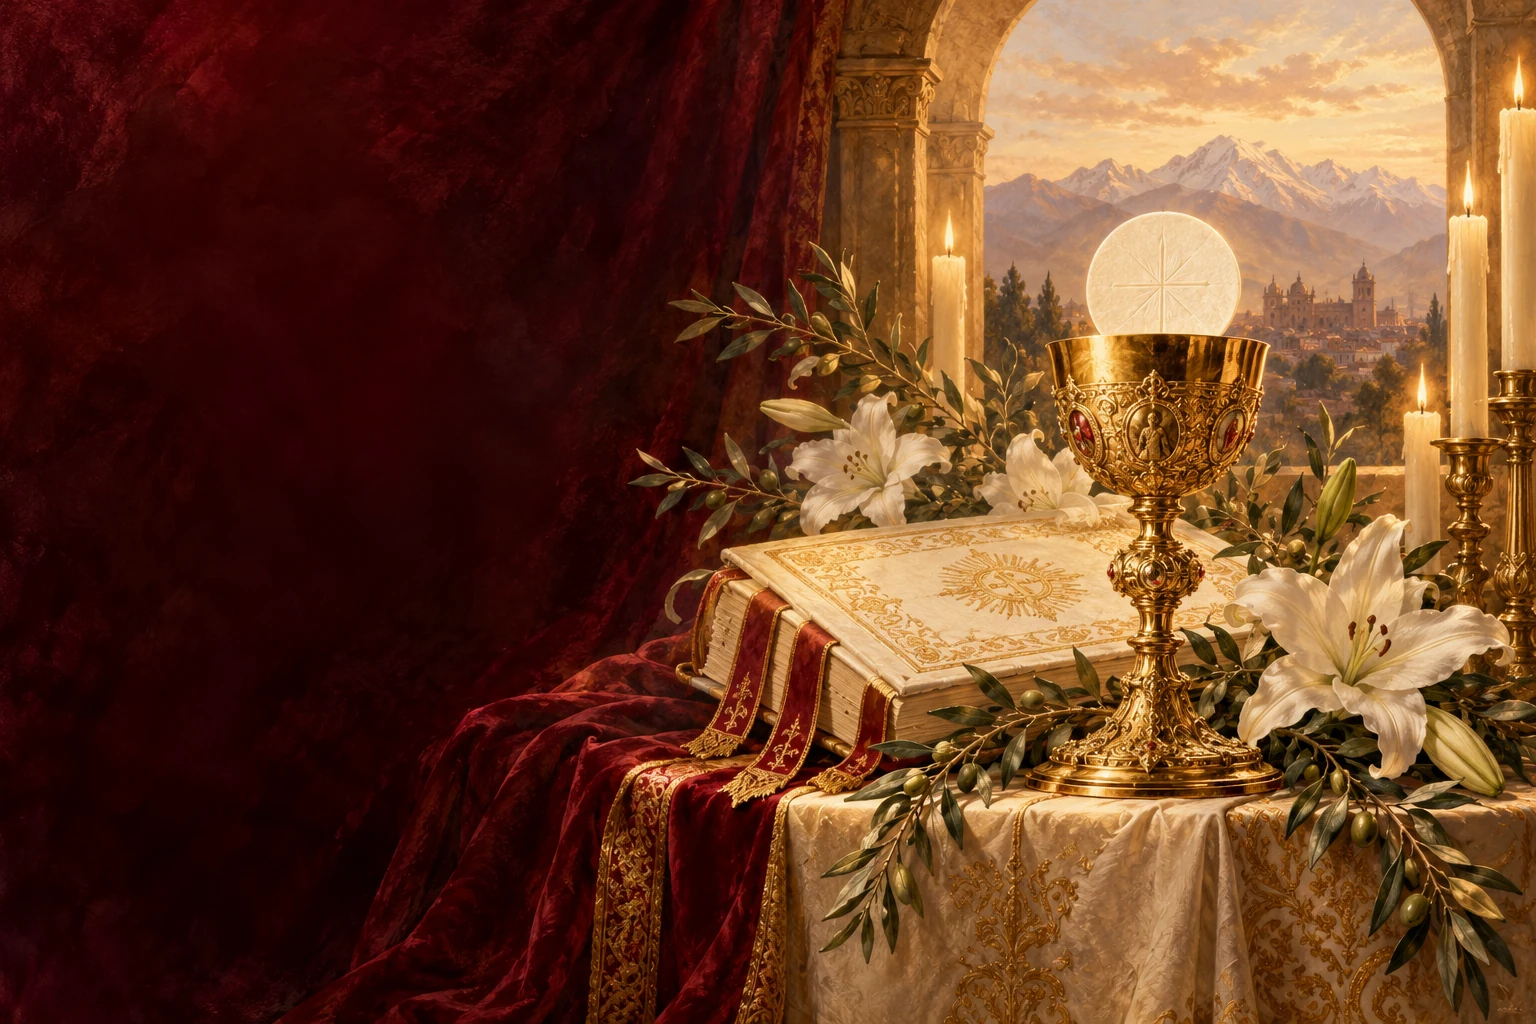
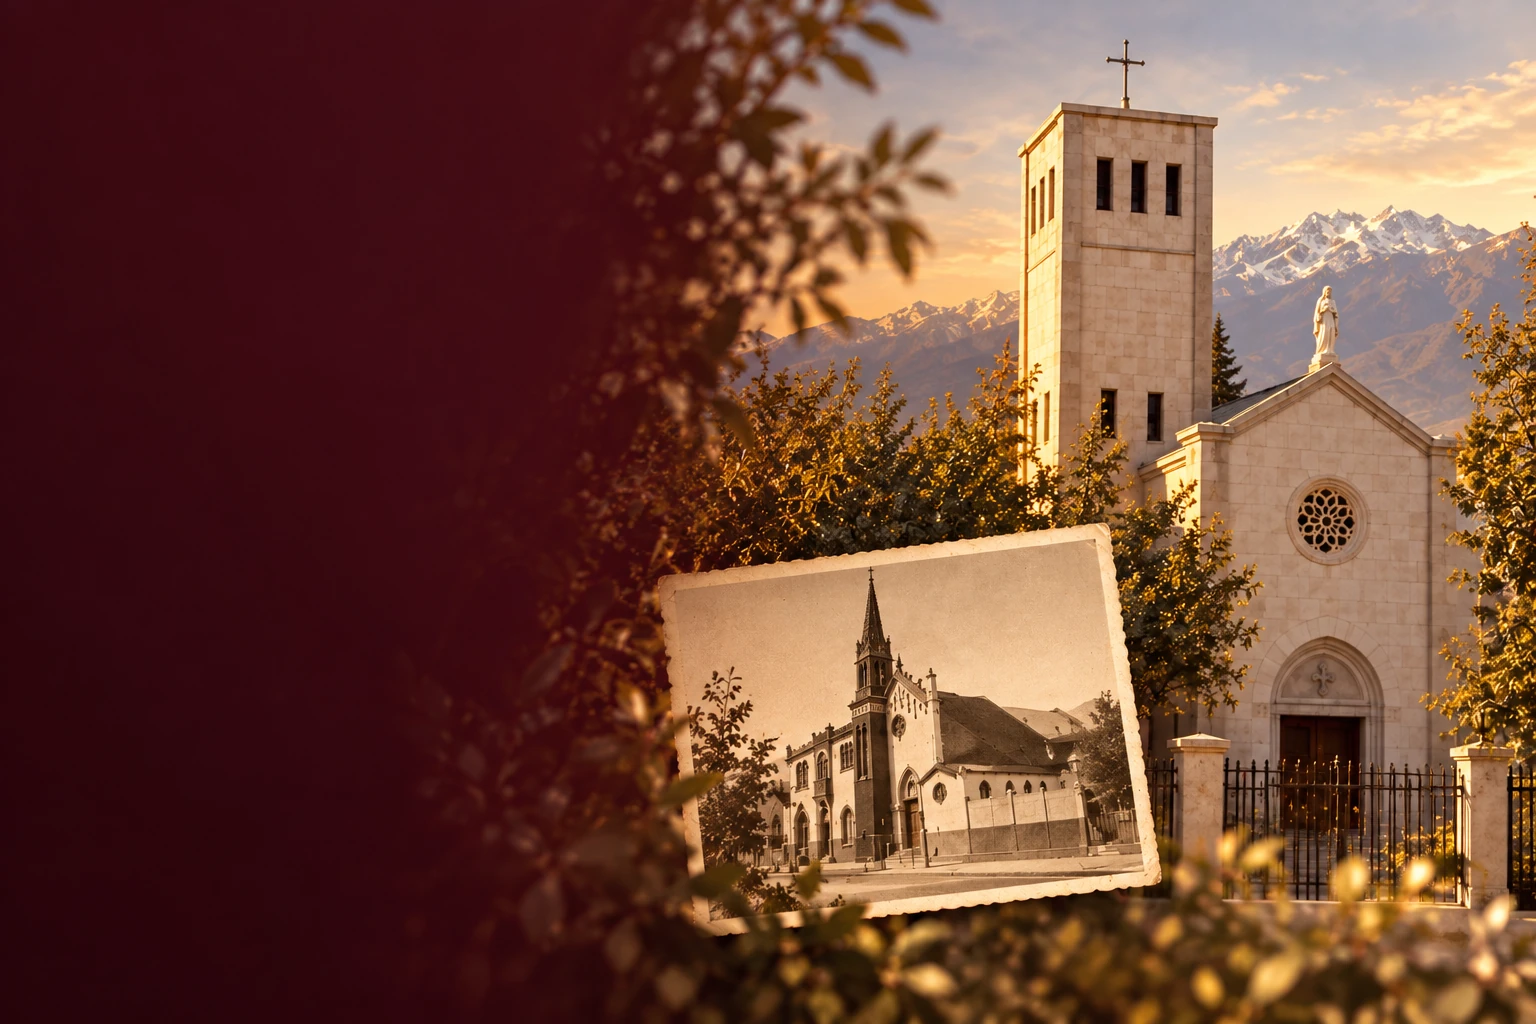
Use supplied church image for anniversary heroes

diff --git a/css/anniversary.css b/css/anniversary.css
@@ -46,7 +46,7 @@
 /* Original anniversary illustration, with live accessible text above it. */
 .anniversary-banner, .hero-slide.anniversary-slide {
  background-color:#341219;
- background-image:linear-gradient(90deg,rgba(40,10,16,.98) 0%,rgba(40,10,16,.93) 25%,rgba(40,10,16,.65) 46%,rgba(40,10,16,.05) 73%),url('../img/priorato/40-aniversario-1600.webp');
+ background-image:linear-gradient(90deg,rgba(40,10,16,.98) 0%,rgba(40,10,16,.93) 25%,rgba(40,10,16,.65) 46%,rgba(40,10,16,.05) 73%),url('../img/priorato/40-aniversario-1600.webp?v=2');
  background-position:center,right center;
  background-size:cover;
 }
@@ -59,7 +59,7 @@
 .anniversary-button:hover { background:#f4dcac; }
 @media(max-width:700px) {
  .anniversary-banner, .hero-slide.anniversary-slide {
-  background-image:linear-gradient(0deg,rgba(40,10,16,.99) 0%,rgba(40,10,16,.93) 36%,rgba(40,10,16,.35) 72%,rgba(40,10,16,.1) 100%),url('../img/priorato/40-aniversario-1600.webp');
+  background-image:linear-gradient(0deg,rgba(40,10,16,.99) 0%,rgba(40,10,16,.93) 36%,rgba(40,10,16,.35) 72%,rgba(40,10,16,.1) 100%),url('../img/priorato/40-aniversario-1600.webp?v=2');
   background-position:center,65% top;
   background-size:cover,auto 100%;
  }

diff --git a/aniversario-40.html b/aniversario-40.html
@@ -47,7 +47,7 @@
   ]
 }
 </script>
-  <link rel="stylesheet" href="css/anniversary.css?v=3">
+  <link rel="stylesheet" href="css/anniversary.css?v=4">
 </head>
 <body>
   <a class="skip-link" href="#contenido">Saltar al contenido</a>

diff --git a/index.html b/index.html
@@ -81,7 +81,7 @@
   ]
 }
 </script>
-  <link rel="stylesheet" href="css/anniversary.css?v=3">
+  <link rel="stylesheet" href="css/anniversary.css?v=4">
 </head>
 <body>
   <a class="skip-link" href="#contenido">Saltar al contenido</a>
